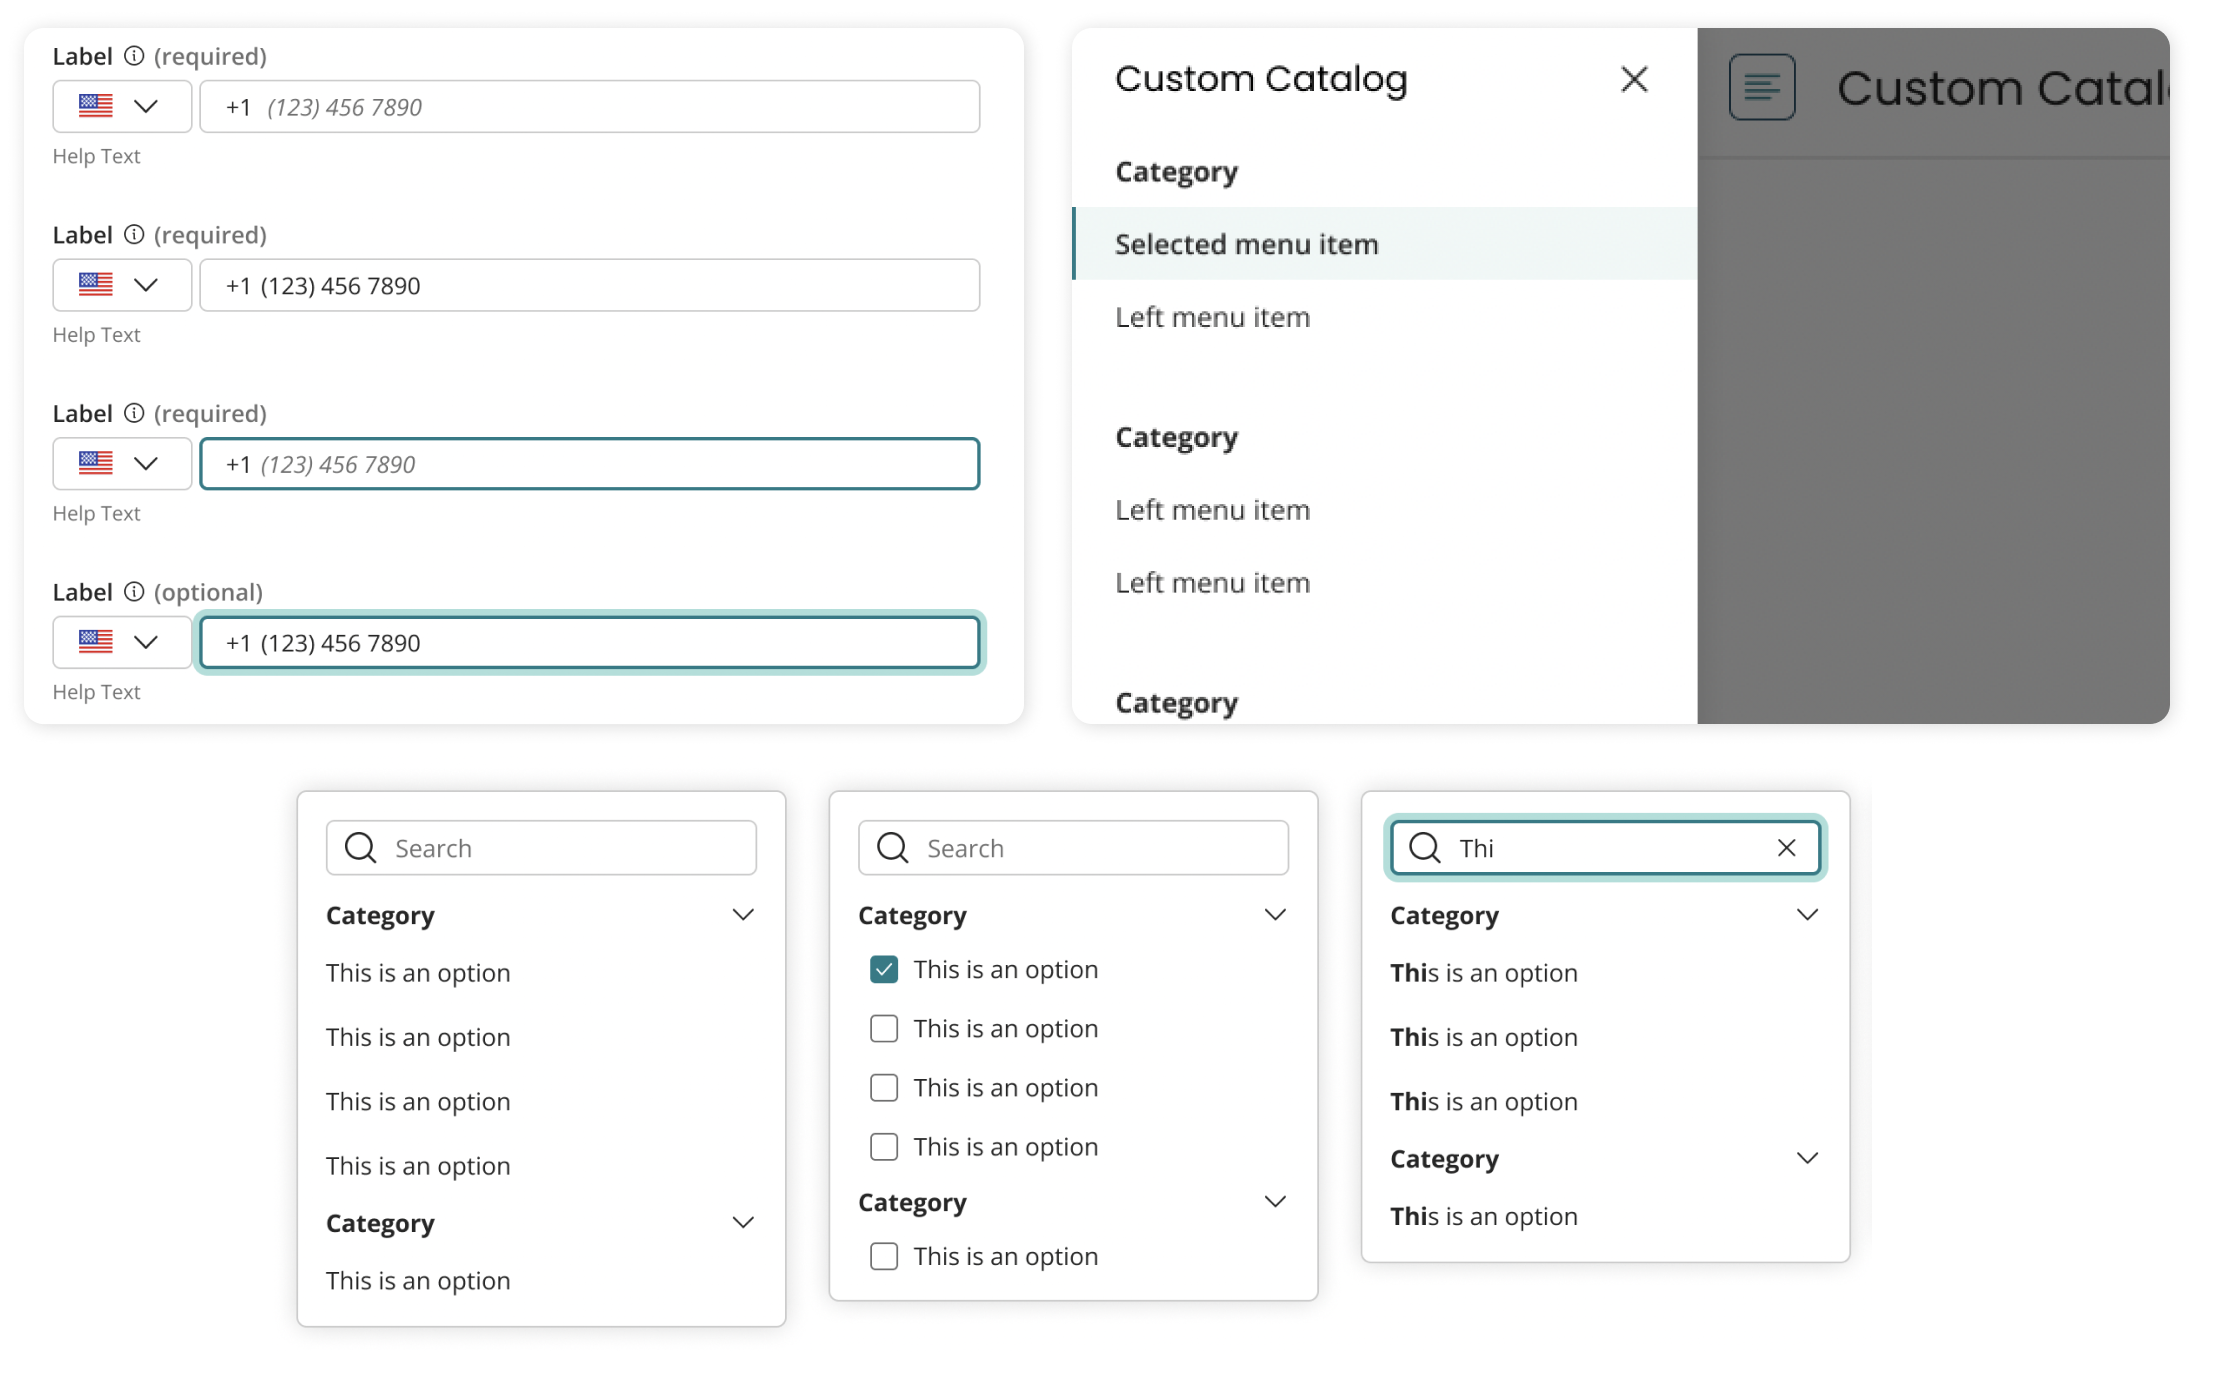
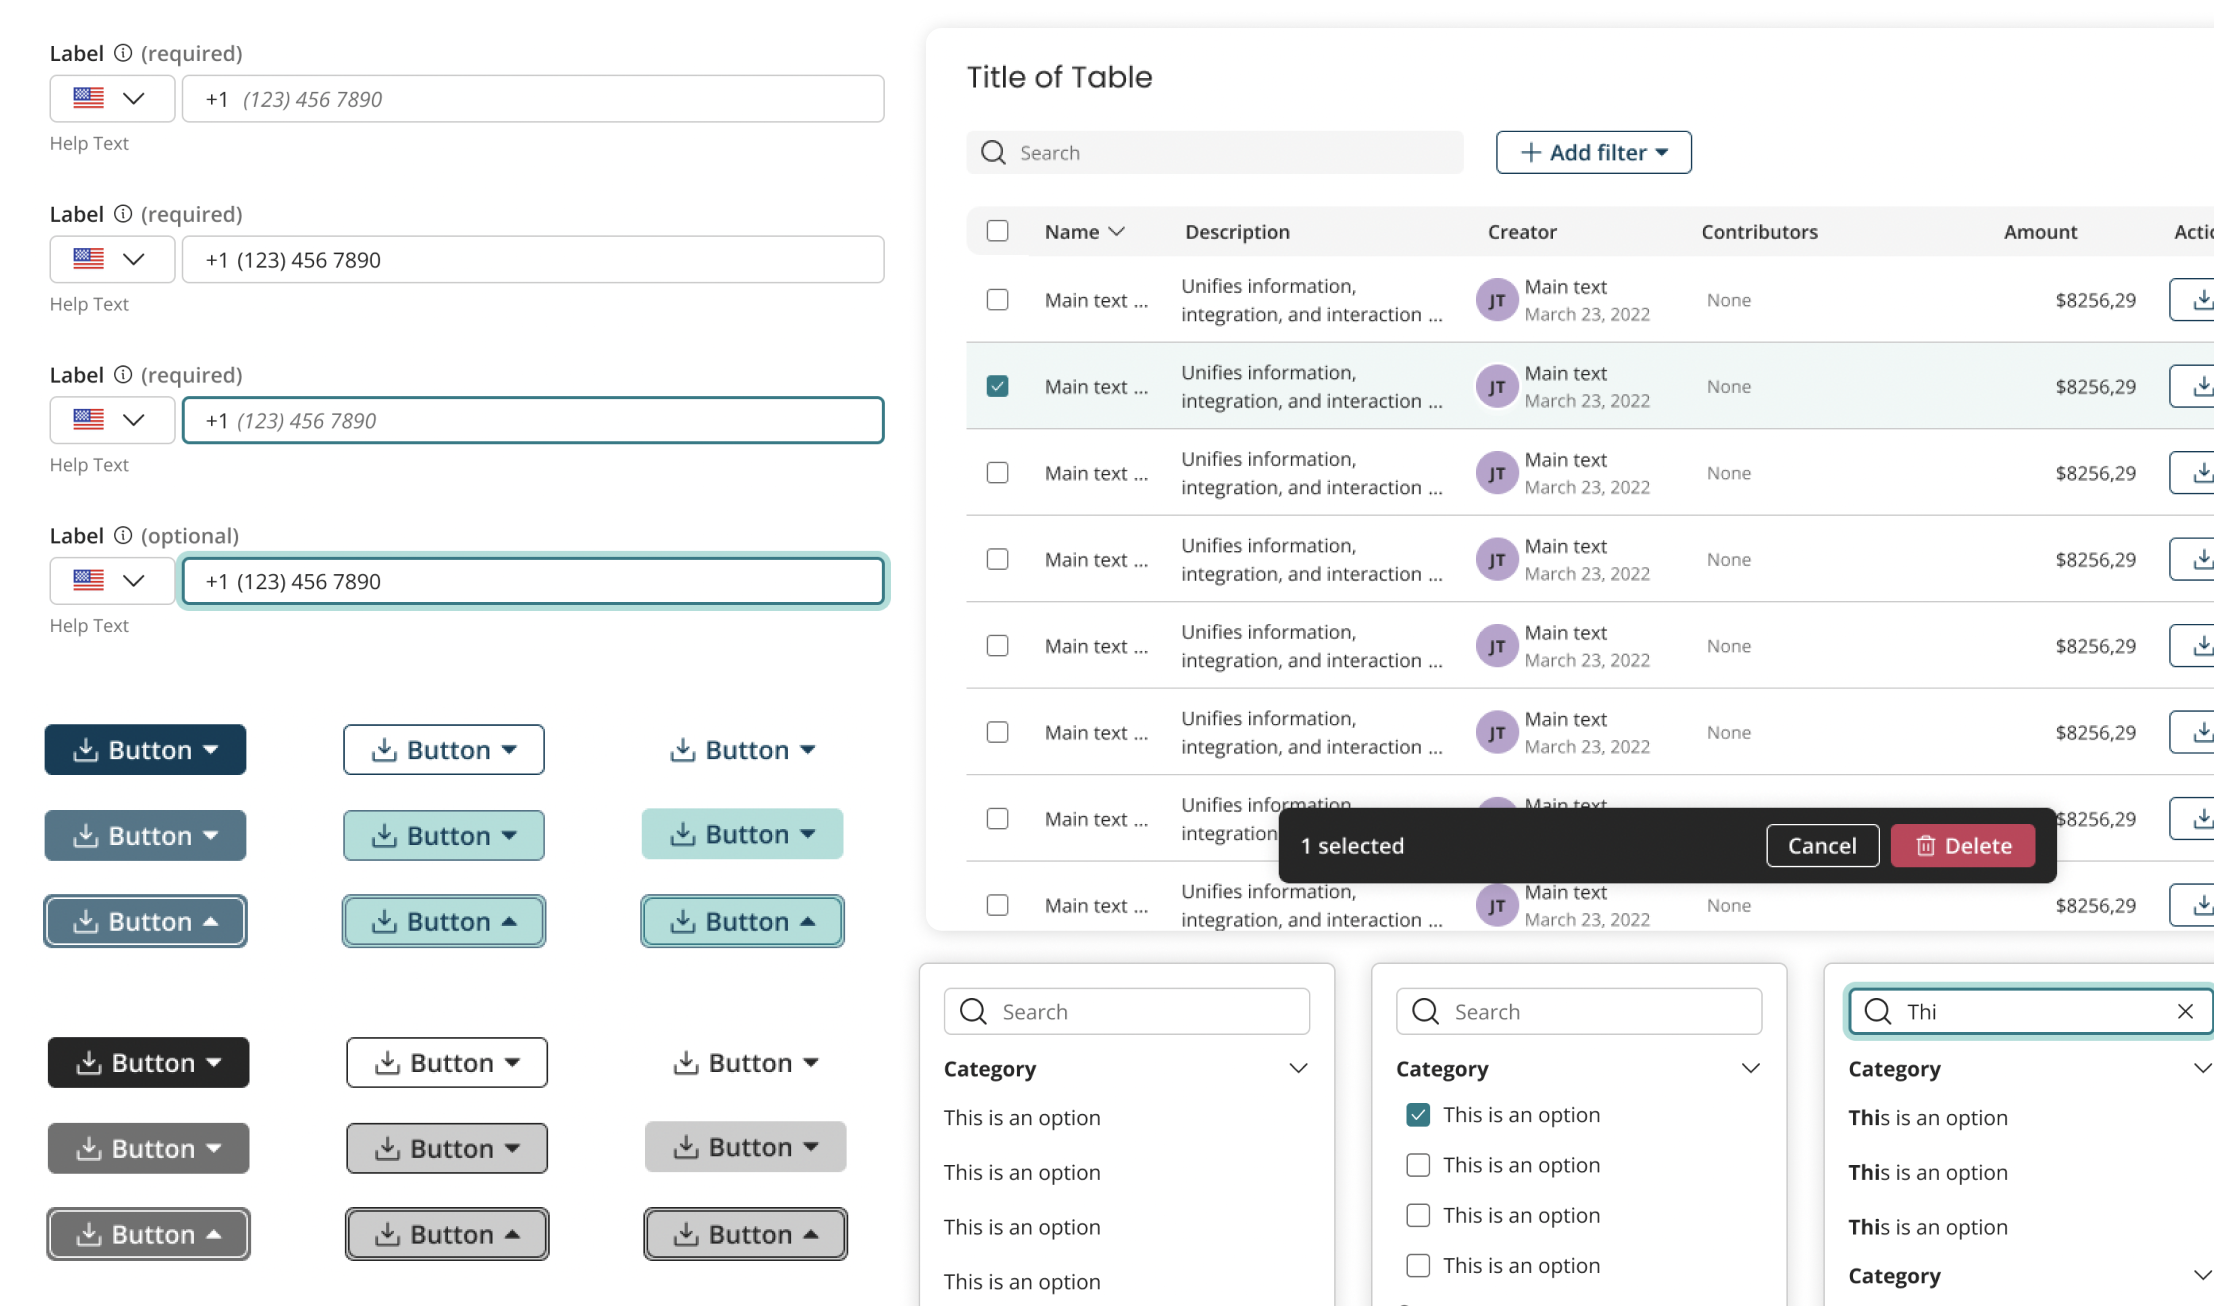
Updated images in Exo

diff --git a/src/components/projects/Boomi/Exosphere.js b/src/components/projects/Boomi/Exosphere.js
@@ -130,13 +130,18 @@ function Exosphere() {
             </ul>
 
           </div>
+
           <div className="Section__img">
-            <img src='/boomi/table.png' alt="Table with Figma properties and sample code" />
-            <p className="Small Alt" >Table with Figma properties and coded prototype</p>
+            <img src='/boomi/components.png' alt="Examples of a few components" className="Styled" />
+            <p className="Small Alt" >Examples of a few components</p>
           </div>
           <div className="Section__img">
-            <img src='/boomi/components.png' alt="Other components" />
-            <p className="Small Alt" >Examples of other components</p>
+            <img src='/boomi/drawer_proto.gif' alt="Coded prototype of a responsive side drawer" className="Styled" />
+            <p className="Small Alt" >Coded prototype of a responsive side drawer</p>
+          </div>
+          <div className="Section__img">
+            <img src='/boomi/loader_proto.gif' alt="Loader animation exploration prototype" className="Styled" />
+            <p className="Small Alt" >Loader animation exploration prototype</p>
           </div>
 
           <div className="Section__content">
@@ -149,8 +154,8 @@ function Exosphere() {
             </ul>
           </div>
           <div className="Section__img">
-            <img src='/boomi/grid.png' alt="Page header in a grid" />
-            <p className="Small Alt" >Page header in a grid</p>
+            <img src='/boomi/grid.png' alt="Some of our responsive grids" />
+            <p className="Small Alt" >Some of our responsive grids</p>
           </div>
 
 
